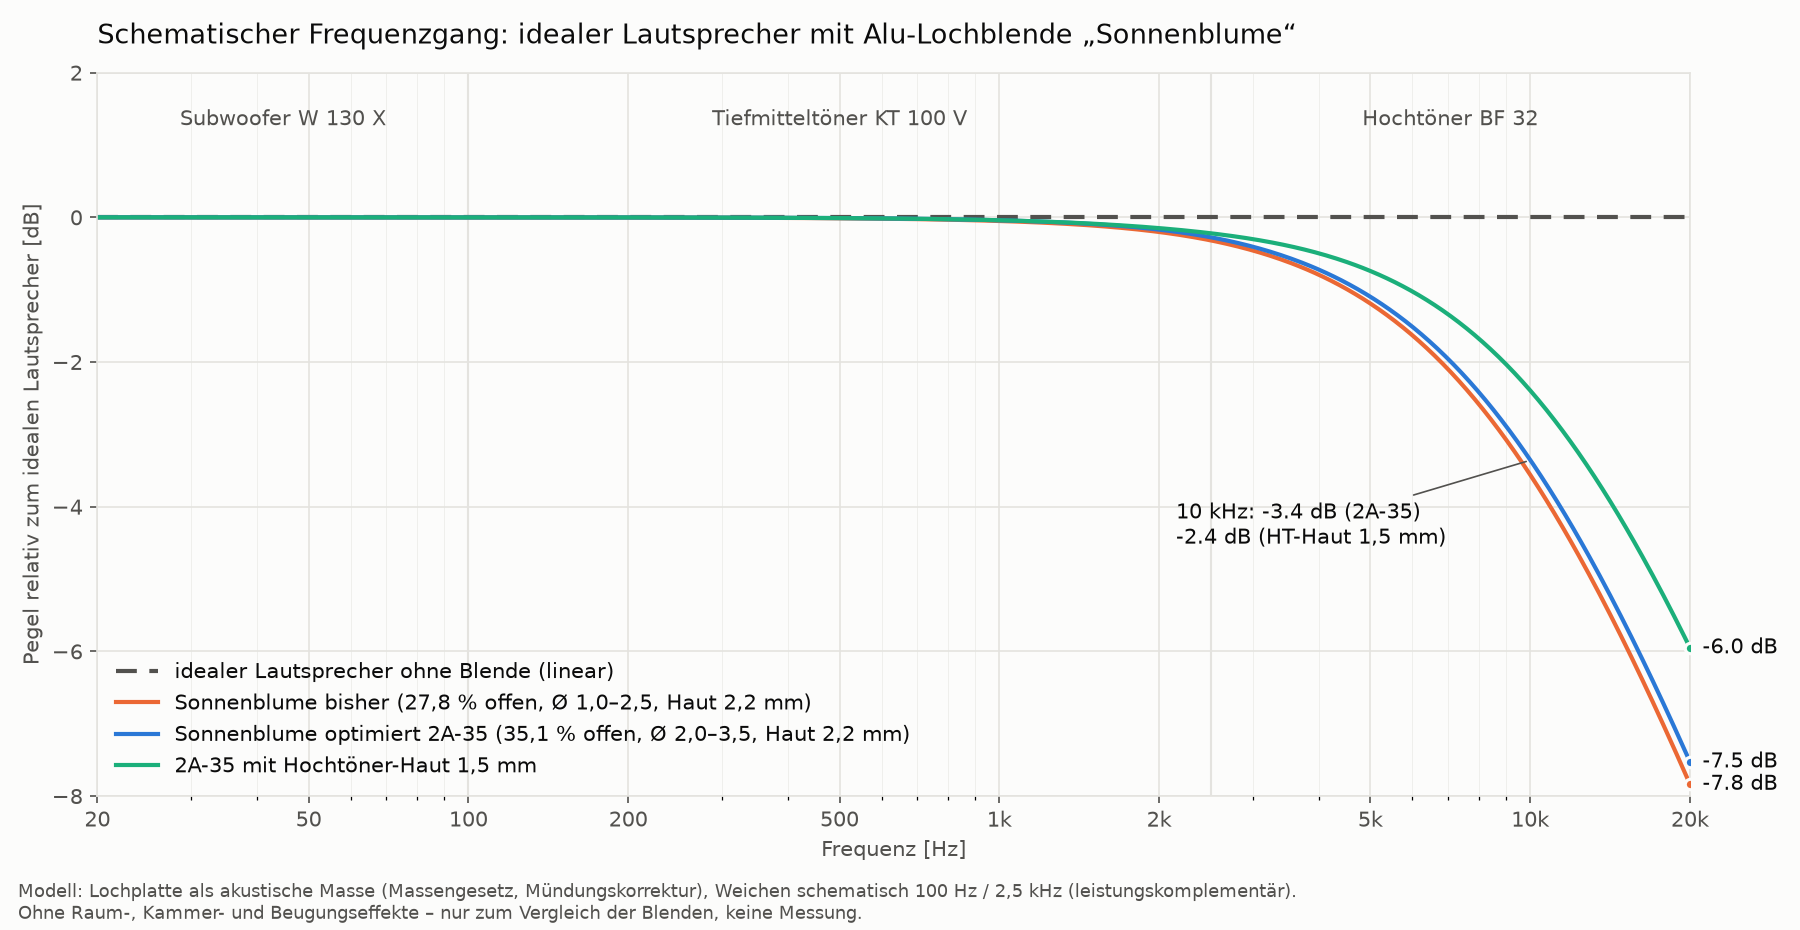
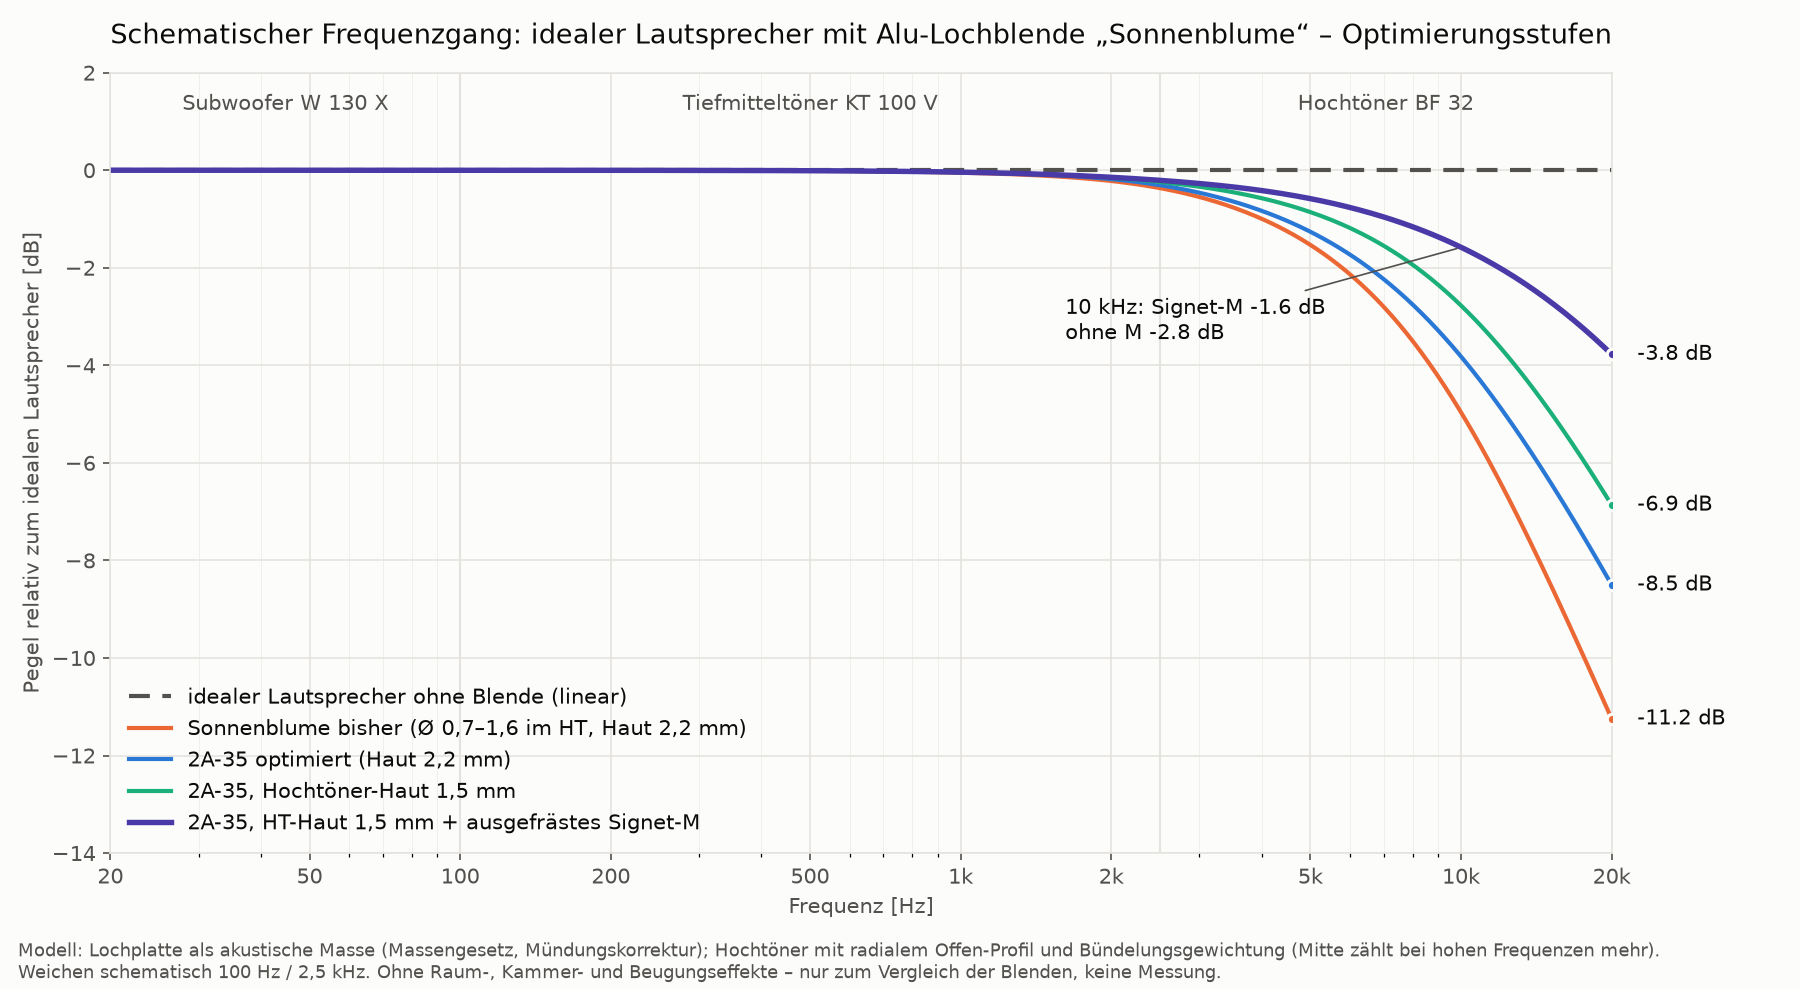
Hochtöner mit ausgefrästem Signet-M (echte Kontur), 3D-Modell, Frequenzplot mit Optimierungsstufen
Radiales Offen-Profil und Bündelungsgewichtung im Hochtöner-Modell.

Claude-Session: https://claude.ai/code/session_01QM8wSzkajYxSVoAyJoSFf2

diff --git a/testprojekt-alu-bauteil/03_konzepte/akustik/frequenzplot.py b/testprojekt-alu-bauteil/03_konzepte/akustik/frequenzplot.py
@@ -1,46 +1,58 @@
 """Schematischer Frequenzgang: idealer (linearer) Lautsprecher + Einfügedämpfung der Lochblende.
-Modell: Lochplatte als akustische Masse (Massengesetz), TL = 10·log10(1 + (ω·m/(2ρc))²),
-m = ρ·t_eff/σ, t_eff = t + 0,85·d·(1 − 0,7·√σ) (Mündungskorrektur mit Wechselwirkung benachbarter Löcher).
+Lochplatte als akustische Masse: TL = 10·log10(1 + (X/2)²), X = ω·t_eff/(σ·c), t_eff = t + 0,85·d·(1 − 0,7·√σ).
+Hochtöner: σ frequenzabhängig gewichtet mit dem radialen Offen-Profil des Feldes (Rasterung) und einer
+Bündelungsgewichtung w_f(r) = exp(−(r/r_f)²), r_f = R·(0,2 + 0,8/√(1+(f/f_ka)²)), f_ka = c/(2π·16 mm) ≈ 3,4 kHz:
+je höher die Frequenz, desto stärker zählt die Feldmitte.
 Weichen schematisch (leistungskomplementär, 4. Ordnung): Sub/TMT 100 Hz, TMT/HT 2,5 kHz."""
-import numpy as np, matplotlib
+import json, numpy as np, matplotlib
 matplotlib.use('Agg'); import matplotlib.pyplot as plt
-c=343.0
-f=np.logspace(np.log10(20),np.log10(20000),600)
+c=343.0; f=np.logspace(np.log10(20),np.log10(20000),600)
+J=json.load(open('ht_profile.json')); r=np.array(J['r']); dA=2*np.pi*r*(r[1]-r[0])
+def sigma_eff(prof):
+    prof=np.array(prof); fka=c/(2*np.pi*0.016); out=[]
+    for fi in f:
+        rf=23.1*(0.2+0.8/np.sqrt(1+(fi/fka)**2)); w=np.exp(-(r/rf)**2)*dA
+        out.append(np.sum(prof*w)/np.sum(w))
+    return np.array(out)
 def tl(sigma,t_mm,d_mm):
     teff=(t_mm+0.85*d_mm*(1-0.7*np.sqrt(sigma)))/1000
-    X=2*np.pi*f*teff/(sigma*c)
-    return 10*np.log10(1+(X/2)**2)
-def system(hts,tmt,sub,f1=100,f2=2500):
-    w_sub=1/(1+(f/f1)**4); w_ht=1/(1+(f2/f)**4); w_tmt=np.clip(1-w_sub-w_ht,0,1)
-    p=w_sub*10**(-sub/10)+w_tmt*10**(-tmt/10)+w_ht*10**(-hts/10)
-    return 10*np.log10(p)
-# Kennwerte (offen σ, Restwand t, mittlerer Loch-Ø d)
-old =system(tl(0.238,2.2,1.30),tl(0.274,2.2,1.9),tl(0.283,2.2,2.0))
-new =system(tl(0.288,2.2,2.25),tl(0.351,2.2,3.0),tl(0.357,2.2,3.0))
-new15=system(tl(0.288,1.5,2.25),tl(0.351,2.2,3.0),tl(0.357,2.2,3.0))
-S1,S2,S3='#2a78d6','#eb6834','#1baf7a'; INK='#0b0b0b'; INK2='#52514e'; GRID='#e4e3df'; SURF='#fcfcfb'
-fig,ax=plt.subplots(figsize=(12,6.2),dpi=150); fig.patch.set_facecolor(SURF); ax.set_facecolor(SURF)
+    return 10*np.log10(1+((2*np.pi*f*teff/(sigma*c))/2)**2)
+def system(ht,tmt,sub,f1=100,f2=2500):
+    ws=1/(1+(f/f1)**4); wh=1/(1+(f2/f)**4); wt=np.clip(1-ws-wh,0,1)
+    return 10*np.log10(ws*10**(-sub/10)+wt*10**(-tmt/10)+wh*10**(-ht/10))
+tmt_old,sub_old=tl(0.274,2.2,1.9),tl(0.283,2.2,2.0)
+tmt_new,sub_new=tl(0.351,2.2,3.0),tl(0.357,2.2,3.0)
+curves=[
+ ('Sonnenblume bisher (Ø 0,7–1,6 im HT, Haut 2,2 mm)', system(tl(sigma_eff(J['bisher']),2.2,1.2),tmt_old,sub_old), '#eb6834'),
+ ('2A-35 optimiert (Haut 2,2 mm)',                    system(tl(sigma_eff(J['ohneM']),2.2,2.25),tmt_new,sub_new), '#2a78d6'),
+ ('2A-35, Hochtöner-Haut 1,5 mm',                     system(tl(sigma_eff(J['ohneM']),1.5,2.25),tmt_new,sub_new), '#1baf7a'),
+ ('2A-35, HT-Haut 1,5 mm + ausgefrästes Signet-M',   system(tl(sigma_eff(J['mitM']),1.5,2.2),tmt_new,sub_new),  '#4a3aa7'),
+]
+INK='#0b0b0b'; INK2='#52514e'; GRID='#e4e3df'; SURF='#fcfcfb'
+fig,ax=plt.subplots(figsize=(12,6.6),dpi=150); fig.patch.set_facecolor(SURF); ax.set_facecolor(SURF)
 for x0,x1,lab in ((20,100,'Subwoofer W 130 X'),(100,2500,'Tiefmitteltöner KT 100 V'),(2500,20000,'Hochtöner BF 32')):
     ax.text(np.sqrt(x0*x1),1.35,lab,ha='center',va='center',fontsize=10,color=INK2)
 for x in (100,2500): ax.axvline(x,color=GRID,lw=1,zorder=0)
 ax.plot(f,np.zeros_like(f),color=INK2,lw=2,ls=(0,(5,3)),label='idealer Lautsprecher ohne Blende (linear)')
-ax.plot(f,old,color=S2,lw=2,label='Sonnenblume bisher (27,8 % offen, Ø 1,0–2,5, Haut 2,2 mm)')
-ax.plot(f,new,color=S1,lw=2,label='Sonnenblume optimiert 2A-35 (35,1 % offen, Ø 2,0–3,5, Haut 2,2 mm)')
-ax.plot(f,new15,color=S3,lw=2,label='2A-35 mit Hochtöner-Haut 1,5 mm')
-for y,col,txt in ((old[-1],S2,f"{old[-1]:.1f} dB"),(new[-1],S1,f"{new[-1]:.1f} dB"),(new15[-1],S3,f"{new15[-1]:.1f} dB")):
-    ax.annotate(txt,(20000,y),xytext=(6,0),textcoords='offset points',va='center',fontsize=10,color=INK)
+ends=[]
+for lab,y,col in curves:
+    ax.plot(f,y,color=col,lw=2.6 if 'Signet' in lab else 2,label=lab); ends.append((y[-1],col))
+# Endwerte mit Mindestabstand beschriften
+ends=sorted(ends); yl=[]
+for y,col in ends:
+    yy=y if not yl or y-yl[-1]>=0.32 else yl[-1]+0.32; yl.append(yy)
     ax.plot([20000],[y],'o',ms=5,color=col,mec=SURF,mew=1.5,zorder=5)
-i10=np.argmin(abs(f-10000))
-ax.annotate(f"10 kHz: {new[i10]:.1f} dB (2A-35)\n{new15[i10]:.1f} dB (HT-Haut 1,5 mm)",(10000,new[i10]),xytext=(-170,-40),textcoords='offset points',fontsize=10,color=INK,arrowprops=dict(arrowstyle='-',color=INK2,lw=0.8))
-ax.set_xscale('log'); ax.set_xlim(20,20000); ax.set_ylim(-8,2)
+    ax.annotate(f"{y:.1f} dB",(20000,y),xytext=(22500,yy),textcoords='data',va='center',fontsize=10,color=INK,annotation_clip=False)
+i10=np.argmin(abs(f-10000)); yM=curves[3][1]; y15=curves[2][1]
+ax.annotate(f"10 kHz: Signet-M {yM[i10]:.1f} dB\nohne M {y15[i10]:.1f} dB",(10000,yM[i10]),xytext=(-190,-44),textcoords='offset points',fontsize=10,color=INK,arrowprops=dict(arrowstyle='-',color=INK2,lw=0.8))
+ax.set_xscale('log'); ax.set_xlim(20,20000); ax.set_ylim(-14,2)
 ax.set_xticks([20,50,100,200,500,1000,2000,5000,10000,20000]); ax.set_xticklabels(['20','50','100','200','500','1k','2k','5k','10k','20k'])
 ax.set_xlabel('Frequenz [Hz]',color=INK2); ax.set_ylabel('Pegel relativ zum idealen Lautsprecher [dB]',color=INK2)
 ax.grid(True,which='major',color=GRID,lw=0.8); ax.grid(True,which='minor',axis='x',color=GRID,lw=0.4,alpha=0.6)
 for s in ax.spines.values(): s.set_color(GRID)
 ax.tick_params(colors=INK2)
-ax.set_title('Schematischer Frequenzgang: idealer Lautsprecher mit Alu-Lochblende „Sonnenblume“',color=INK,fontsize=13,loc='left',pad=14)
+ax.set_title('Schematischer Frequenzgang: idealer Lautsprecher mit Alu-Lochblende „Sonnenblume“ – Optimierungsstufen',color=INK,fontsize=13,loc='left',pad=14)
 ax.legend(loc='lower left',frameon=False,fontsize=10,labelcolor=INK)
-fig.text(0.01,0.012,'Modell: Lochplatte als akustische Masse (Massengesetz, Mündungskorrektur), Weichen schematisch 100 Hz / 2,5 kHz (leistungskomplementär).\nOhne Raum-, Kammer- und Beugungseffekte – nur zum Vergleich der Blenden, keine Messung.',fontsize=8.5,color=INK2)
-fig.tight_layout(rect=(0,0.05,1,1)); fig.savefig('Frequenzplot_Sonnenblume.png',facecolor=SURF)
-for nm,v in (('bisher',old),('2A-35',new),('2A-35 HT 1,5',new15)):
-    print(nm,' '.join(f"{fq}Hz:{v[np.argmin(abs(f-fq))]:.2f}" for fq in (1000,5000,10000,15000,20000)))
+fig.text(0.01,0.012,'Modell: Lochplatte als akustische Masse (Massengesetz, Mündungskorrektur); Hochtöner mit radialem Offen-Profil und Bündelungsgewichtung (Mitte zählt bei hohen Frequenzen mehr).\nWeichen schematisch 100 Hz / 2,5 kHz. Ohne Raum-, Kammer- und Beugungseffekte – nur zum Vergleich der Blenden, keine Messung.',fontsize=8.5,color=INK2)
+fig.tight_layout(rect=(0,0.05,0.97,1)); fig.savefig('Frequenzplot_Sonnenblume.png',facecolor=SURF)
+for lab,y,_ in curves: print(f"{lab:50s} "+'  '.join(f"{fq//1000}k:{y[np.argmin(abs(f-fq))]:.2f}" for fq in (5000,10000,15000,20000)))

diff --git a/testprojekt-alu-bauteil/04_cad/blende/blende_2a35.py b/testprojekt-alu-bauteil/04_cad/blende/blende_2a35.py
@@ -12,6 +12,8 @@ P=json.load(open(os.path.join(ROOT,'parameter.json')))
 sys.path.insert(0,os.path.join(ROOT,'03_konzepte','logo')); import mwlogo
 sys.path.insert(0,HERE); import lochmuster_opt as LM
 LM.WMIN=0.8
+import signet_m
+M_WIDTH=28.0             # ausgefrästes Signet-M im Hochtöner (echte Kontur), Breite in mm
 
 # ---------------- Parameter ----------------
 T=8.5                    # Blendendicke
@@ -105,15 +107,29 @@ def build_blende():
         cyl=cq.Workplane('XY',origin=(x,y,-T-1)).circle(Rf).extrude(T+2)
         cone=cq.Solid.makeCone(Rf,Rf+RING,RECESS,pnt=cq.Vector(x,y,-RECESS),dir=cq.Vector(0,0,1))
         body=body.cut(cyl).cut(cq.Workplane().add(cone))
-        pts=field_2a35(x,y,D); allpts+=pts
+        pts=field_2a35(x,y,D)
         sk=SKIN_HT if D<60 else SKIN
         outer=cq.Wire.makeCircle(Rf,cq.Vector(x,y,0),cq.Vector(0,0,1))
-        inners=[cq.Wire.makeCircle(d/2,cq.Vector(px,py,0),cq.Vector(0,0,1)) for px,py,d in pts]
+        inners=[]
+        if D<60:   # Signet-M (echte Kontur) + Löcher nur mit Steg >= 0,8 mm zum M
+            M=signet_m.signet_poly(M_WIDTH,x,y)
+            def segd(p,a,b):
+                p,a,b=map(np.array,(p,a,b)); t=np.clip(np.dot(p-a,b-a)/np.dot(b-a,b-a),0,1); return np.linalg.norm(p-(a+t*(b-a)))
+            def pip(p):
+                c=False
+                for i in range(len(M)):
+                    (x1,y1),(x2,y2)=M[i],M[i-1]
+                    if (y1>p[1])!=(y2>p[1]) and p[0]<(x2-x1)*(p[1]-y1)/(y2-y1)+x1: c=not c
+                return c
+            pts=[(px,py,d) for px,py,d in pts if not pip((px,py)) and min(segd((px,py),M[i-1],M[i]) for i in range(len(M)))-d/2>=0.8]
+            inners.append(cq.Wire.makePolygon([cq.Vector(px,py,0) for px,py in M],close=True))
+        allpts+=pts
+        inners+=[cq.Wire.makeCircle(d/2,cq.Vector(px,py,0),cq.Vector(0,0,1)) for px,py,d in pts]
         skin=cq.Solid.extrudeLinear(cq.Face.makeFromWires(outer,inners),cq.Vector(0,0,sk)).translate((0,0,-RECESS-sk))
         if D<60 and CSINK_HT>0:   # rückseitige 90°-Senkungen (optional)
             cones=[cq.Solid.makeCone(d/2+CSINK_HT,d/2,CSINK_HT,pnt=cq.Vector(px,py,-RECESS-sk),dir=cq.Vector(0,0,1)) for px,py,d in pts]
             skin=skin.cut(cq.Compound.makeCompound(cones))
-        print(f'  Feld Ø{D}: {len(pts)} Bohrungen {sorted(set(p[2] for p in pts))}, Restwand {sk} mm'+(' + Senkung' if (D<60 and CSINK_HT>0) else ''))
+        print(f'  Feld Ø{D}: {len(pts)} Bohrungen {sorted(set(p[2] for p in pts))}, Restwand {sk} mm'+(f', Signet-M {M_WIDTH} mm' if D<60 else '')+(' + Senkung' if (D<60 and CSINK_HT>0) else ''))
         body=body.union(cq.Workplane().add(skin.Solids()))
     # Logo einfräsen
     faces,C=logo_faces()
@@ -148,8 +164,8 @@ def build_scene():
 
 if __name__=='__main__':
     b,pts,C=build_blende()
-    cq.exporters.export(b,os.path.join(OUT,'Blende_2A35.step'))
-    cq.exporters.export(b,os.path.join(OUT,'Blende_2A35.stl'),tolerance=0.02,angularTolerance=0.15)
+    cq.exporters.export(b,os.path.join(OUT,'Blende_2A35M.step'))
+    cq.exporters.export(b,os.path.join(OUT,'Blende_2A35M.stl'),tolerance=0.02,angularTolerance=0.15)
     for name,s in zip(['Rumpf','Einfassung','Fach','Korpus'],build_scene()):
         cq.exporters.export(s,os.path.join(OUT,f'Szene_{name}.stl'),tolerance=0.05,angularTolerance=0.2)
     v=b.val().Volume(); print(f'Blende 2A-35: Volumen {v/1000:.1f} cm³, Masse {v*2.70/1000:.0f} g (EN AW-6082)')

diff --git a/testprojekt-alu-bauteil/04_cad/blende/signet_m.py b/testprojekt-alu-bauteil/04_cad/blende/signet_m.py
@@ -1,0 +1,55 @@
+"""Hochtöner-Feld mit Signet-M als zentralem Durchbruch + Sonnenblumen-Löcher außen.
+Offene Fläche per Rasterung, Stege per Abstandskarte."""
+import numpy as np, math, sys
+from PIL import Image, ImageDraw, ImageFont
+from scipy import ndimage
+import os; _H=os.path.dirname(os.path.abspath(__file__)); sys.path.insert(0,os.path.join(_H,'..','..','03_konzepte','logo')); sys.path.insert(0,_H); import mwlogo; import lochmuster_opt as opt2c
+D=46.2; R=D/2-1.2; RES=0.02; N=int(D/RES)+20; C=N//2; W=0.8; ANG=math.radians(3.711)
+def signet_poly(width,cx=0.0,cy=0.0,ang=ANG):
+    bx0,by0,bx1,by1=mwlogo.BBOX_SIG; k=width/(bx1-bx0); mx,my=(bx0+bx1)/2,(by0+by1)/2
+    out=[]
+    for u,v in mwlogo.SIGNET[0]:
+        dx,dy=(u-mx)*k,-(v-my)*k
+        out.append((cx+dx*math.cos(ang)-dy*math.sin(ang), cy+dx*math.sin(ang)+dy*math.cos(ang)))
+    return out
+def P(x,y): return (C+x/RES, C-y/RES)
+def build(mw):
+    im=Image.new('L',(N,N),0); d=ImageDraw.Draw(im)
+    M=signet_poly(mw); d.polygon([P(*p) for p in M],fill=255)
+    # Abstand jedes Punkts zum M (für Lochfreistellung)
+    mm=np.asarray(im)>0; distM=ndimage.distance_transform_edt(~mm)*RES
+    opt2c.WMIN=W
+    pts=opt2c.best_phyllo(0,0,R,lambda t:2.0 if t<0.75 else 2.5)
+    kept=[]
+    for x,y,dd in pts:
+        X,Y=P(x,y); X,Y=int(X),int(Y)
+        if distM[Y,X] >= dd/2+W: kept.append((x,y,dd))
+    for x,y,dd in kept:
+        X,Y=P(x,y); r=dd/2/RES; d.ellipse([X-r,Y-r,X+r,Y+r],fill=255)
+    yy,xx=np.mgrid[0:N,0:N]; field=((xx-C)**2+(yy-C)**2)<=(D/2/RES)**2
+    a=np.asarray(im)>0; openp=a[field].mean()*100
+    mat=(~a)&(((xx-C)**2+(yy-C)**2)<=((D/2-0.3)/RES)**2); dist=ndimage.distance_transform_edt(mat)*RES
+    ridge=(dist==ndimage.maximum_filter(dist,size=int(0.3/RES)))&(dist>0.05)
+    web=np.percentile(2*dist[ridge],0.5)
+    # schmalste Stelle im M (Strichstärke)
+    dM=ndimage.distance_transform_edt(mm)*RES; rM=(dM==ndimage.maximum_filter(dM,size=int(0.3/RES)))&(dM>0.05)
+    stroke=np.percentile(2*dM[rM],2)
+    return im,openp,web,stroke,len(kept),M
+if __name__=='__main__':
+    res=[]
+    for mw in (16.0,20.0,24.0):
+        im,o,w,s,n,M=build(mw); res.append((mw,im,o,w,s,n))
+        print(f"M-Breite {mw:4.1f} mm (Höhe {mw*(mwlogo.BBOX_SIG[3]-mwlogo.BBOX_SIG[1])/(mwlogo.BBOX_SIG[2]-mwlogo.BBOX_SIG[0]):.1f}): {o:4.1f} % offen, Steg min {w:.2f} mm, M-Strich min {s:.2f} mm, {n} Löcher")
+    F=ImageFont.truetype('/usr/share/fonts/truetype/dejavu/DejaVuSans-Bold.ttf',26); Fs=ImageFont.truetype('/usr/share/fonts/truetype/dejavu/DejaVuSans.ttf',20)
+    tiles=[]
+    for mw,im,o,w,s,n in res:
+        t=Image.new('RGB',(620,700),(236,238,242)); a=im.resize((560,560),Image.LANCZOS)
+        disk=Image.new('RGB',(560,560),(214,217,222)); disk.paste(Image.new('RGB',(560,560),(18,19,23)),(0,0),a)
+        mask=Image.new('L',(560,560),0); ImageDraw.Draw(mask).ellipse([0,0,559,559],fill=255)
+        t.paste(disk,(30,20),mask); dr=ImageDraw.Draw(t); dr.ellipse([30,20,589,579],outline=(250,250,252),width=5)
+        dr.text((20,600),f"M {mw:.0f} mm breit  ·  {o:.1f} % offen",font=F,fill=(20,20,20))
+        dr.text((20,640),f"Steg ≥ {w:.2f} mm · M-Strich ≥ {s:.2f} mm · {n} Löcher",font=Fs,fill=(60,60,60))
+        tiles.append(t)
+    out=Image.new('RGB',(620*len(tiles),700),'white')
+    for i,t in enumerate(tiles): out.paste(t,(620*i,0))
+    out.save('HT_M_Varianten.jpg',quality=90)

diff --git a/testprojekt-alu-bauteil/03_konzepte/render/konzepte2.py b/testprojekt-alu-bauteil/03_konzepte/render/konzepte2.py
@@ -153,8 +153,23 @@ def sonnenblume_mit_M(mfac,law_fn,edge=1.2):
 def _law(D):
     q=lambda v,ds:min(ds,key=lambda x:abs(x-v))
     return (lambda t:q(2.5+1.0*t,[2.5,3.0,3.5])) if D>60 else (lambda t:2.0 if t<0.75 else 2.5)
+def _pip(p,poly):
+    x,y=p; c=False
+    for i in range(len(poly)):
+        x1,y1=poly[i]; x2,y2=poly[i-1]
+        if (y1>y)!=(y2>y) and x<(x2-x1)*(y-y1)/(y2-y1)+x1: c=not c
+    return c
+def ht_M_kontur(pen,cx,cy,D,mw=28.0):
+    """Hochtöner: Sonnenblume + echte Signet-Kontur (aus dem vektorisierten Logo) als Durchbruch, 3,7° gedreht."""
+    M=_htm.signet_poly(mw,cx,cy)
+    opt2c.WMIN=0.8
+    for x,y,d in opt2c.best_phyllo(cx,cy,D/2-1.2,_law(D)):
+        if _pip((x,y),M): continue
+        dmin=min(_segdist((x,y),M[i-1],M[i]) for i in range(len(M)))
+        if dmin-d/2>=0.8: hole(pen,(x,y),d)
+    pen.poly(M,fill=(16,17,21))
 def nur_ht_M(pen,cx,cy,D):
-    if D<60: sonnenblume_mit_M(28/46.2,_law)(pen,cx,cy,D)
+    if D<60: ht_M_kontur(pen,cx,cy,D)
     else: feld_sonnenblume35(pen,cx,cy,D)
 def alle_M(pen,cx,cy,D):
     sonnenblume_mit_M(0.6,_law)(pen,cx,cy,D)
@@ -198,7 +213,7 @@ if __name__=='__main__':
         items=[("2A Sonnenblume bisher · 27,8 % offen · Steg 0,56 mm (zu dünn)", lambda im: alu_poliert(im,'A')),
                ("2A-35 Sonnenblume querschnittsoptimiert · 35,1 % offen · Steg ≥ 0,8 mm", lambda im: alu_poliert(im,'A35'))]
         sheet(items,'Sonnenblume_Vergleich.jpg',crop); print('ok'); raise SystemExit
-    V2=("Variante 2 – Alu hochglanzpoliert · Sonnenblume querschnittsoptimiert · 35 % offen", lambda im: alu_poliert(im,'A35'))
+    V2=("Variante 2 – Alu hochglanzpoliert · Sonnenblume · Hochtöner mit ausgefrästem M", lambda im: alu_poliert(im,'MH'))
     items=[V1,V2]
     sheet(items,'Vorschau_flach.jpg',crop)
     sheet_montage(items,'Vorschau_Montage.jpg')

diff --git a/testprojekt-alu-bauteil/03_konzepte/KONZEPTE.md b/testprojekt-alu-bauteil/03_konzepte/KONZEPTE.md
@@ -40,7 +40,32 @@ Sonnenblume (Spiralabstand jeweils automatisch auf den Mindeststeg optimiert):
 | **2A-35: Sub/TMT Ø2,5→3,5, HT Ø2,0→2,5** | **28,8 %** | **35,1 %** | **35,7 %** | **35,1 %** | **0,80 mm** |
 | 2A-35 mit Steg ≥ 0,7 | 30,6 % | 36,6 % | 37,4 % | 36,8 % | 0,70 mm |
 
-## Sonnenblume + zusätzlich ausgefrästes M (Stand 30.09.2026)
+## Festlegung Hochtöner: Sonnenblume + ausgefrästes Signet-M (echte Kontur)
+
+Nur im Hochtöner. Statt Schlitzen konstanter Breite wird die **echte Signet-Kontur** (aus dem
+vektorisierten Logo) als Durchbruch gefräst: Breite 28 mm, 3,7° gedreht wie das Logo, schmalste Stelle
+1,62 mm (Fräser Ø 1,0 mm, Spitzen 49° → Verrundung r 0,5 mm). Löcher bleiben, außer sie kämen dem M
+näher als 0,8 mm. Hochtöner 27,0 % offen, **die Feldmitte (r < 4 mm) ist zu 45–99 % offen** statt 0–26 %.
+3D-Modell: `04_cad/blende/blende_2a35.py` (→ `Blende_2A35M.step/.stl`, 1.412 Bohrungen, 1.062 g).
+
+![HT-Detail](bilder/HT_M_Kontur_Detail.jpg)
+
+Schematischer Frequenzgang aller Optimierungsstufen (Hochtöner mit radialem Offen-Profil und
+Bündelungsgewichtung – die Mitte zählt bei hohen Frequenzen mehr; `akustik/frequenzplot.py`):
+
+![Frequenzgang](akustik/Frequenzplot_Sonnenblume.png)
+
+| Stufe | 5 kHz | 10 kHz | 15 kHz | 20 kHz |
+|---|---|---|---|---|
+| Sonnenblume bisher | −1,5 dB | −5,0 dB | −8,4 dB | −11,2 dB |
+| 2A-35 (Haut 2,2 mm) | −1,3 dB | −3,8 dB | −6,4 dB | −8,5 dB |
+| 2A-35, HT-Haut 1,5 mm | −0,9 dB | −2,8 dB | −4,9 dB | −6,9 dB |
+| **2A-35, HT-Haut 1,5 mm + Signet-M** | **−0,6 dB** | **−1,6 dB** | **−2,7 dB** | **−3,8 dB** |
+
+Die absoluten Werte hängen von der (vereinfachten) Bündelungsgewichtung ab; die Reihenfolge und der
+Trend sind robust. Verifikation per REW-Messung mit/ohne Blende.
+
+## Sonnenblume + zusätzlich ausgefrästes M – Schlitzvariante (Vorstufe)
 
 Kein Emblem: Die Sonnenblume bleibt vollständig, **zusätzlich** werden die vier Schenkel des Signet-M als
 Schlitze ausgefräst (linke Schenkel Ø 1,6, rechte Ø 2,5 mm – wie der Dünn/Dick-Kontrast im Signet,
